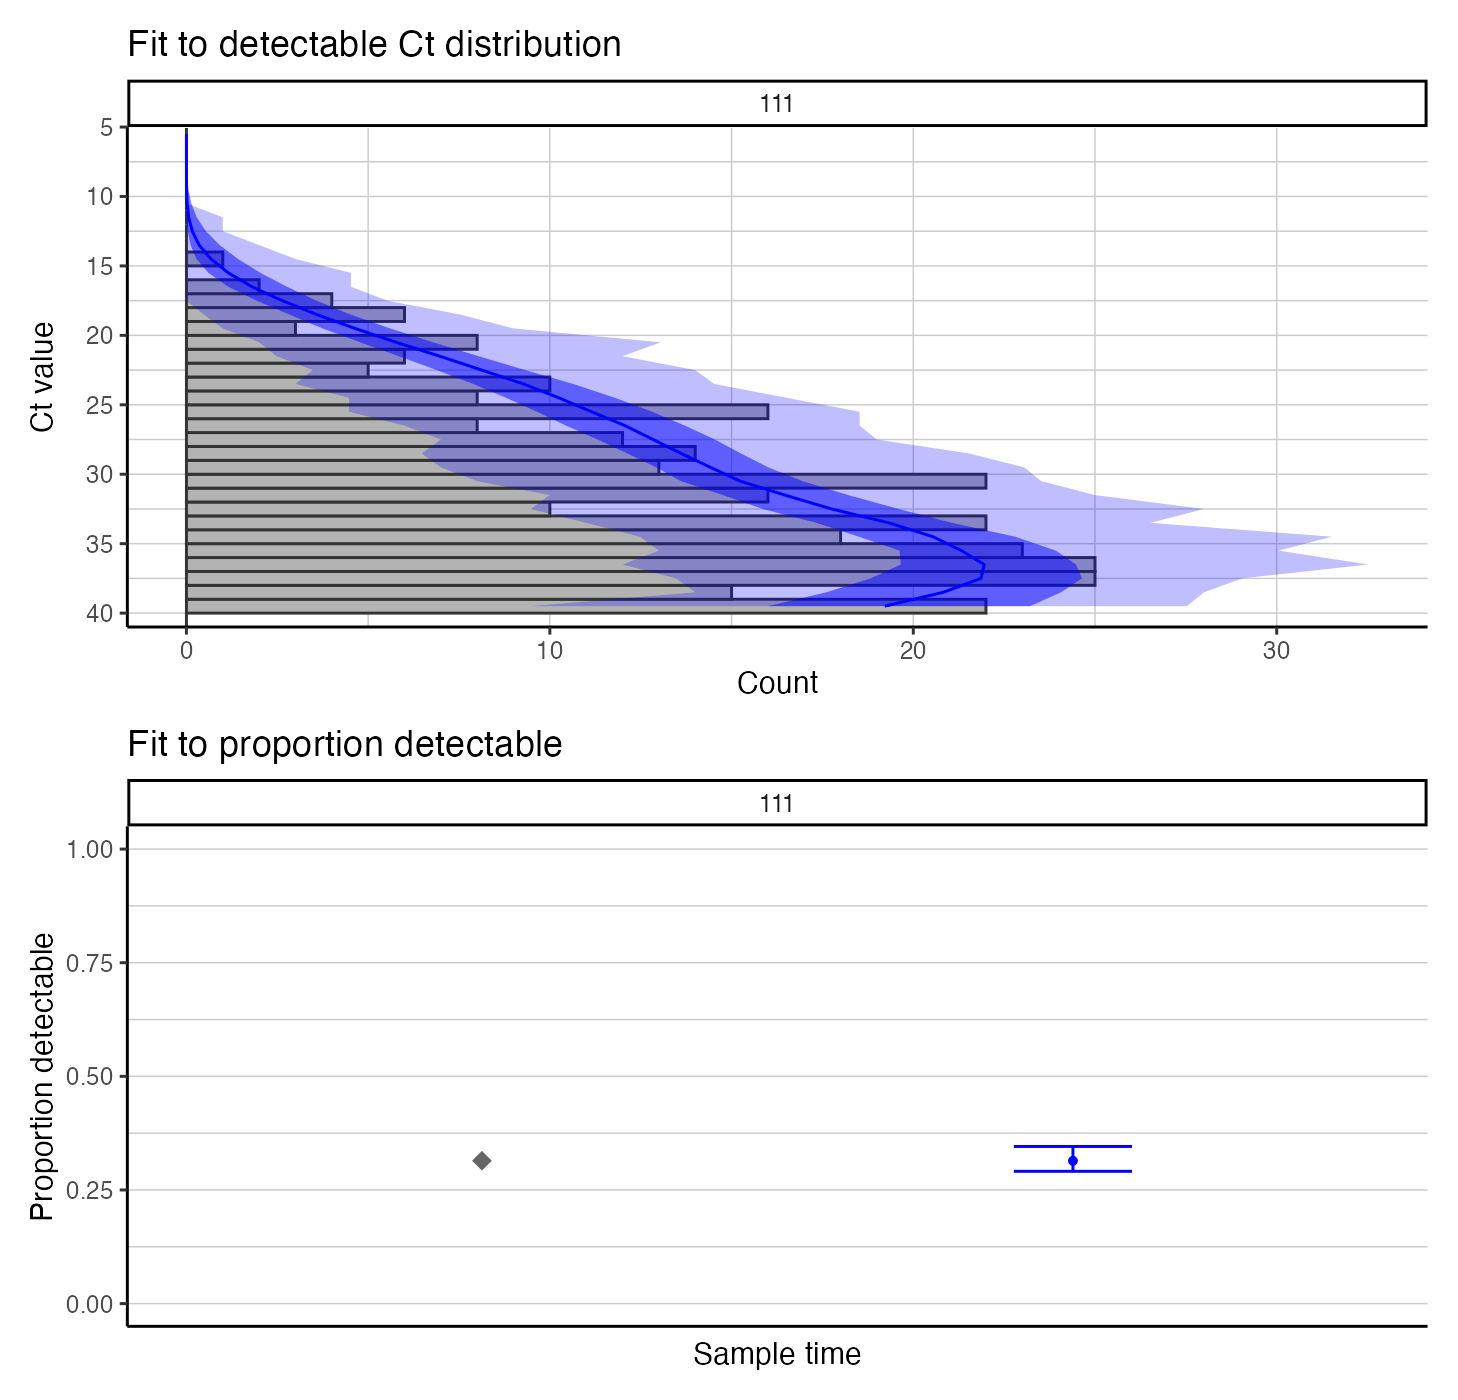
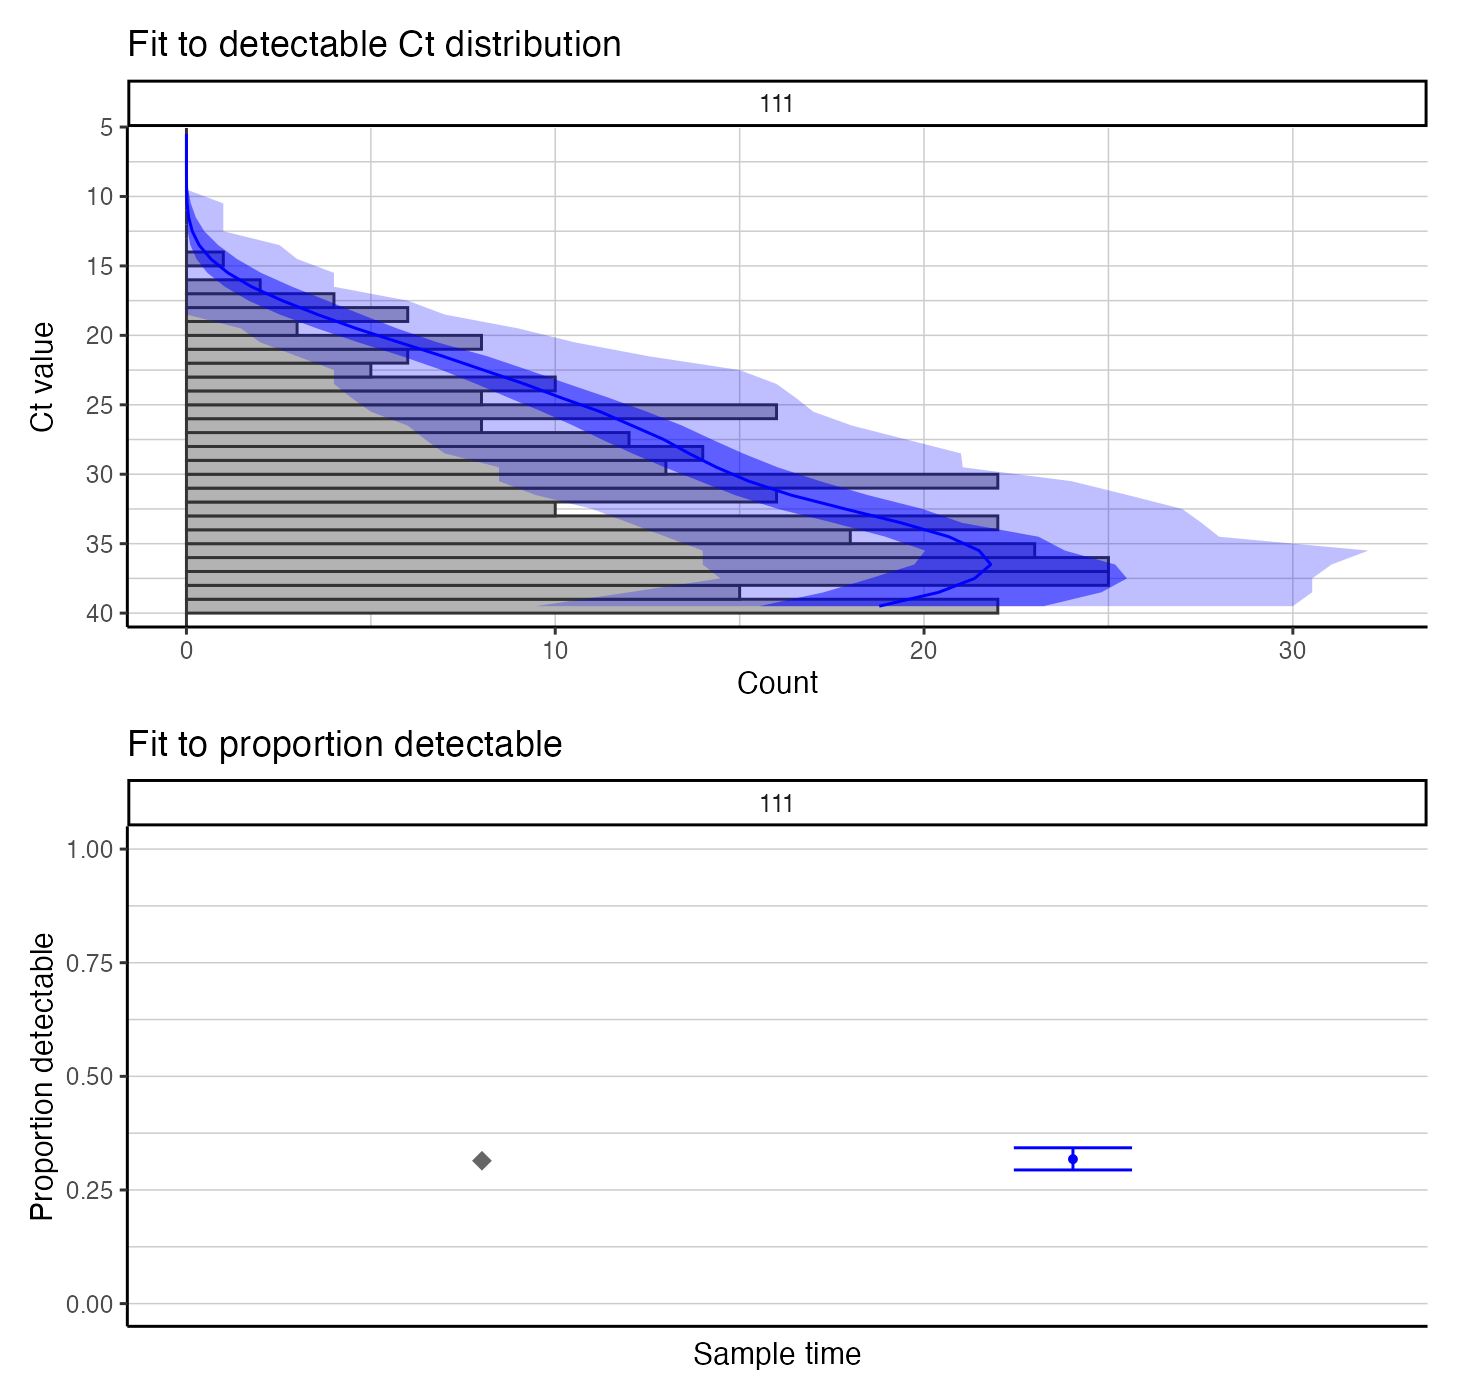
Oops, had incorrectly formatted bullet points in README

diff --git a/docs/index.html b/docs/index.html
@@ -80,7 +80,11 @@
 <div id="setup" class="section level1">
 <h1 class="hasAnchor">
 <a href="#setup" class="anchor" aria-hidden="true"></a>Setup</h1>
-<p>This package relies on the <code>lazymcmc</code> R package, which is used for the MCMC procedure. This is easy to do with <code>devtools::install_github("jameshay218/lazymcmc")</code>. <em>However</em>, for many analyses where multi-modal posteriors are suspected, a separate branch implementing parallel tempering is needed. I’d recommend you set this up as follows: - Install the <code>lazymcmc</code> base package using <code>devtools::install_github("jameshay218/lazymcmc")</code> as above. Any time this version is used, <code><a href="https://github.com/jameshay218/lazymcmc" class="external-link">library(lazymcmc)</a></code> is called. - Clone the <code>parallel_tempering</code> branch from <a href="https://github.com/jameshay218/lazymcmc/tree/parallel_tempering" class="external-link">here</a>. Whenever this version is needed, then <code>devtools::load_all("PATH TO LAZYMCMC PARALLEL TEMPERING REPO")</code> is called instead.</p>
+<p>This package relies on the <code>lazymcmc</code> R package, which is used for the MCMC procedure. This is easy to do with <code>devtools::install_github("jameshay218/lazymcmc")</code>. <em>However</em>, for many analyses where multi-modal posteriors are suspected, a separate branch implementing parallel tempering is needed. I’d recommend you set this up as follows:</p>
+<ul>
+<li>Install the <code>lazymcmc</code> base package using <code>devtools::install_github("jameshay218/lazymcmc")</code> as above. Any time this version is used, <code><a href="https://github.com/jameshay218/lazymcmc" class="external-link">library(lazymcmc)</a></code> is called.</li>
+<li>Clone the <code>parallel_tempering</code> branch from <a href="https://github.com/jameshay218/lazymcmc/tree/parallel_tempering" class="external-link">here</a>. Whenever this version is needed, then <code>devtools::load_all("PATH TO     LAZYMCMC PARALLEL TEMPERING REPO")</code> is called instead.</li>
+</ul>
 <p>It is possible to install the parallel tempering branch directly with <code>devtools::install_github("jameshay218/lazymcmc@parallel_tempering")</code>, but I prefer to load the package locally until I merge the parallel tempering and master branches.</p>
 <p>A number of generic R packages are also used throughout:</p>
 <div class="sourceCode" id="cb1"><pre class="downlit sourceCode r">

diff --git a/docs/articles/vignette.html b/docs/articles/vignette.html
@@ -188,12 +188,12 @@
 <span class="co">## # A tibble: 6 x 3</span>
 <span class="co">##     age i        ct</span>
 <span class="co">##   &lt;dbl&gt; &lt;chr&gt; &lt;dbl&gt;</span>
-<span class="co">## 1     1 1      30.1</span>
-<span class="co">## 2     1 2      33.8</span>
-<span class="co">## 3     1 3      38.1</span>
-<span class="co">## 4     1 4      40  </span>
-<span class="co">## 5     1 5      40  </span>
-<span class="co">## 6     1 6      40</span>
+<span class="co">## 1     1 1      33.5</span>
+<span class="co">## 2     1 2      40  </span>
+<span class="co">## 3     1 3      40  </span>
+<span class="co">## 4     1 4      38.8</span>
+<span class="co">## 5     1 5      36.1</span>
+<span class="co">## 6     1 6      37.6</span>
 <span class="va">p_sim_cts_age</span> <span class="op">&lt;-</span> <span class="fu"><a href="https://ggplot2.tidyverse.org/reference/ggplot.html" class="external-link">ggplot</a></span><span class="op">(</span><span class="va">sim_cts</span> <span class="op"><a href="https://magrittr.tidyverse.org/reference/pipe.html" class="external-link">%&gt;%</a></span> <span class="fu"><a href="https://dplyr.tidyverse.org/reference/filter.html" class="external-link">filter</a></span><span class="op">(</span><span class="va">ct</span> <span class="op">&lt;</span> <span class="fl">40</span><span class="op">)</span><span class="op">)</span> <span class="op">+</span>
   <span class="fu"><a href="https://ggplot2.tidyverse.org/reference/geom_point.html" class="external-link">geom_point</a></span><span class="op">(</span><span class="fu"><a href="https://ggplot2.tidyverse.org/reference/aes.html" class="external-link">aes</a></span><span class="op">(</span>x<span class="op">=</span><span class="va">age</span>,y<span class="op">=</span><span class="va">ct</span><span class="op">)</span>,alpha<span class="op">=</span><span class="fl">0.25</span><span class="op">)</span> <span class="op">+</span>
   <span class="fu"><a href="https://ggplot2.tidyverse.org/reference/scale_continuous.html" class="external-link">scale_y_continuous</a></span><span class="op">(</span>trans<span class="op">=</span><span class="st">"reverse"</span>,limits<span class="op">=</span><span class="fu"><a href="https://rdrr.io/r/base/c.html" class="external-link">c</a></span><span class="op">(</span><span class="fl">40</span>,<span class="fl">10</span><span class="op">)</span><span class="op">)</span> <span class="op">+</span>

diff --git a/README.md b/README.md
@@ -27,13 +27,15 @@ MCMC procedure. This is easy to do with
 `devtools::install_github("jameshay218/lazymcmc")`. *However*, for many
 analyses where multi-modal posteriors are suspected, a separate branch
 implementing parallel tempering is needed. I’d recommend you set this up
-as follows: - Install the `lazymcmc` base package using
-`devtools::install_github("jameshay218/lazymcmc")` as above. Any time
-this version is used, `library(lazymcmc)` is called. - Clone the
-`parallel_tempering` branch from
-[here](https://github.com/jameshay218/lazymcmc/tree/parallel_tempering).
-Whenever this version is needed, then `devtools::load_all("PATH TO
-LAZYMCMC PARALLEL TEMPERING REPO")` is called instead.
+as follows:
+
+  - Install the `lazymcmc` base package using
+    `devtools::install_github("jameshay218/lazymcmc")` as above. Any
+    time this version is used, `library(lazymcmc)` is called.
+  - Clone the `parallel_tempering` branch from
+    [here](https://github.com/jameshay218/lazymcmc/tree/parallel_tempering).
+    Whenever this version is needed, then `devtools::load_all("PATH TO
+    LAZYMCMC PARALLEL TEMPERING REPO")` is called instead.
 
 It is possible to install the parallel tempering branch directly with
 `devtools::install_github("jameshay218/lazymcmc@parallel_tempering")`,
